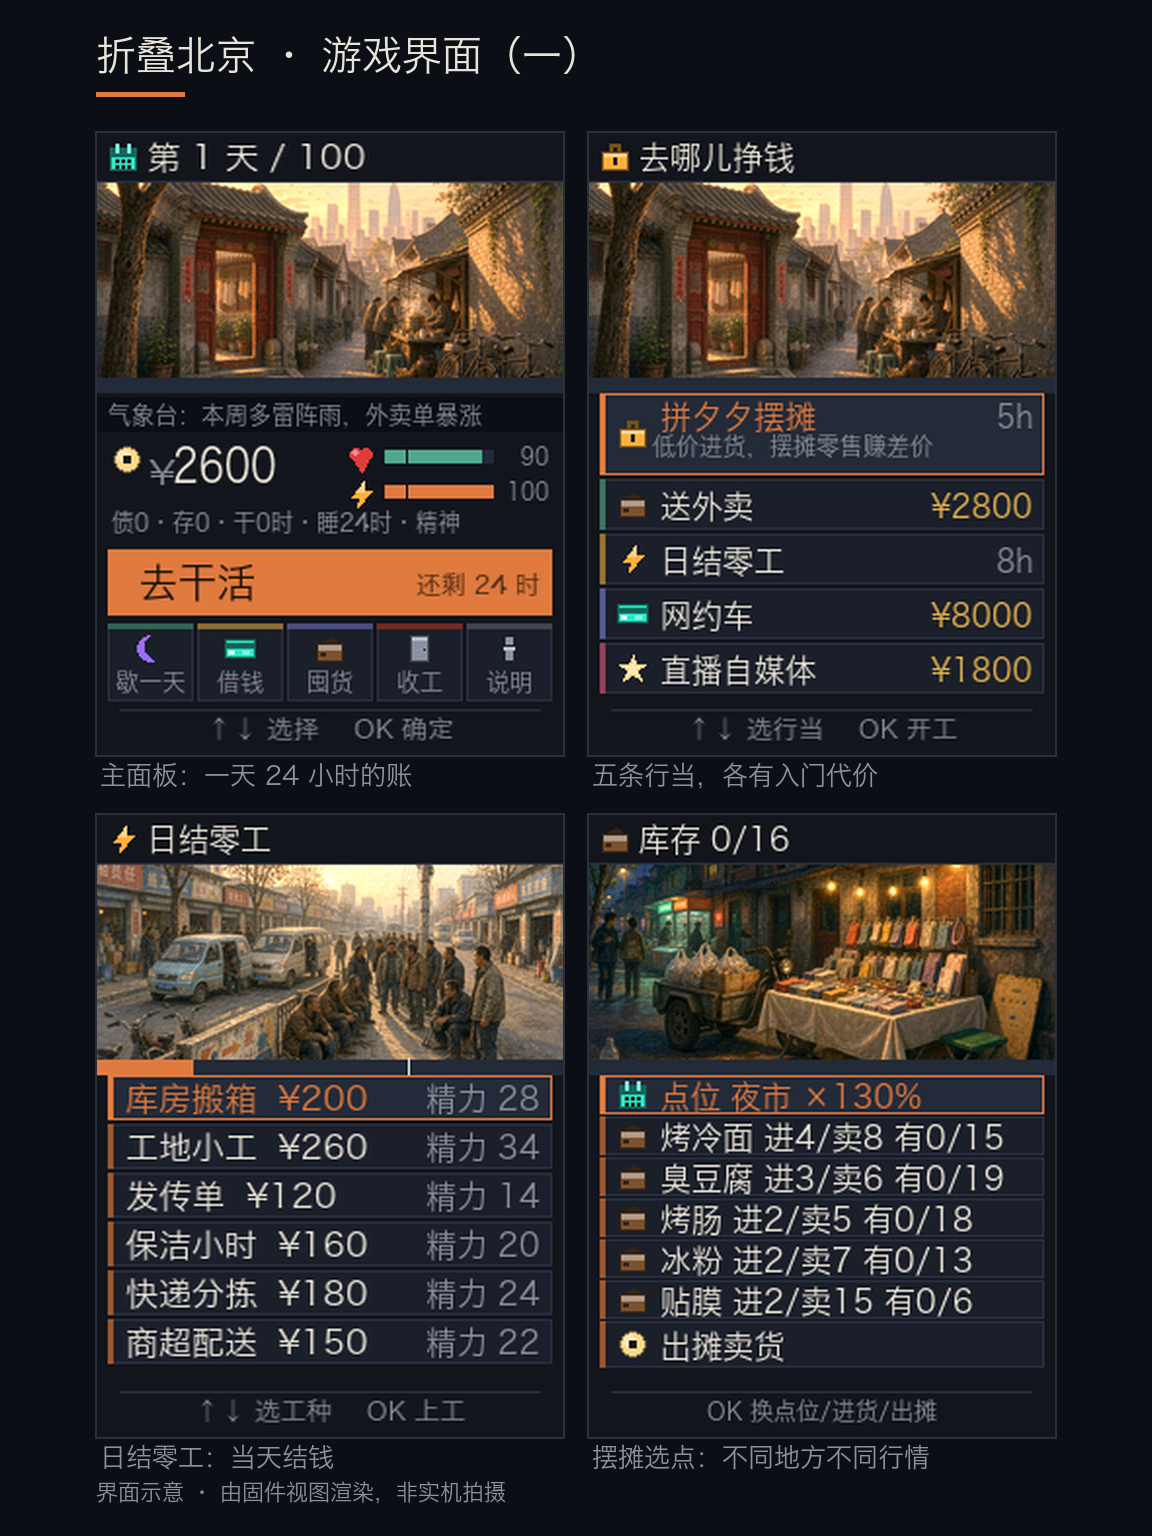
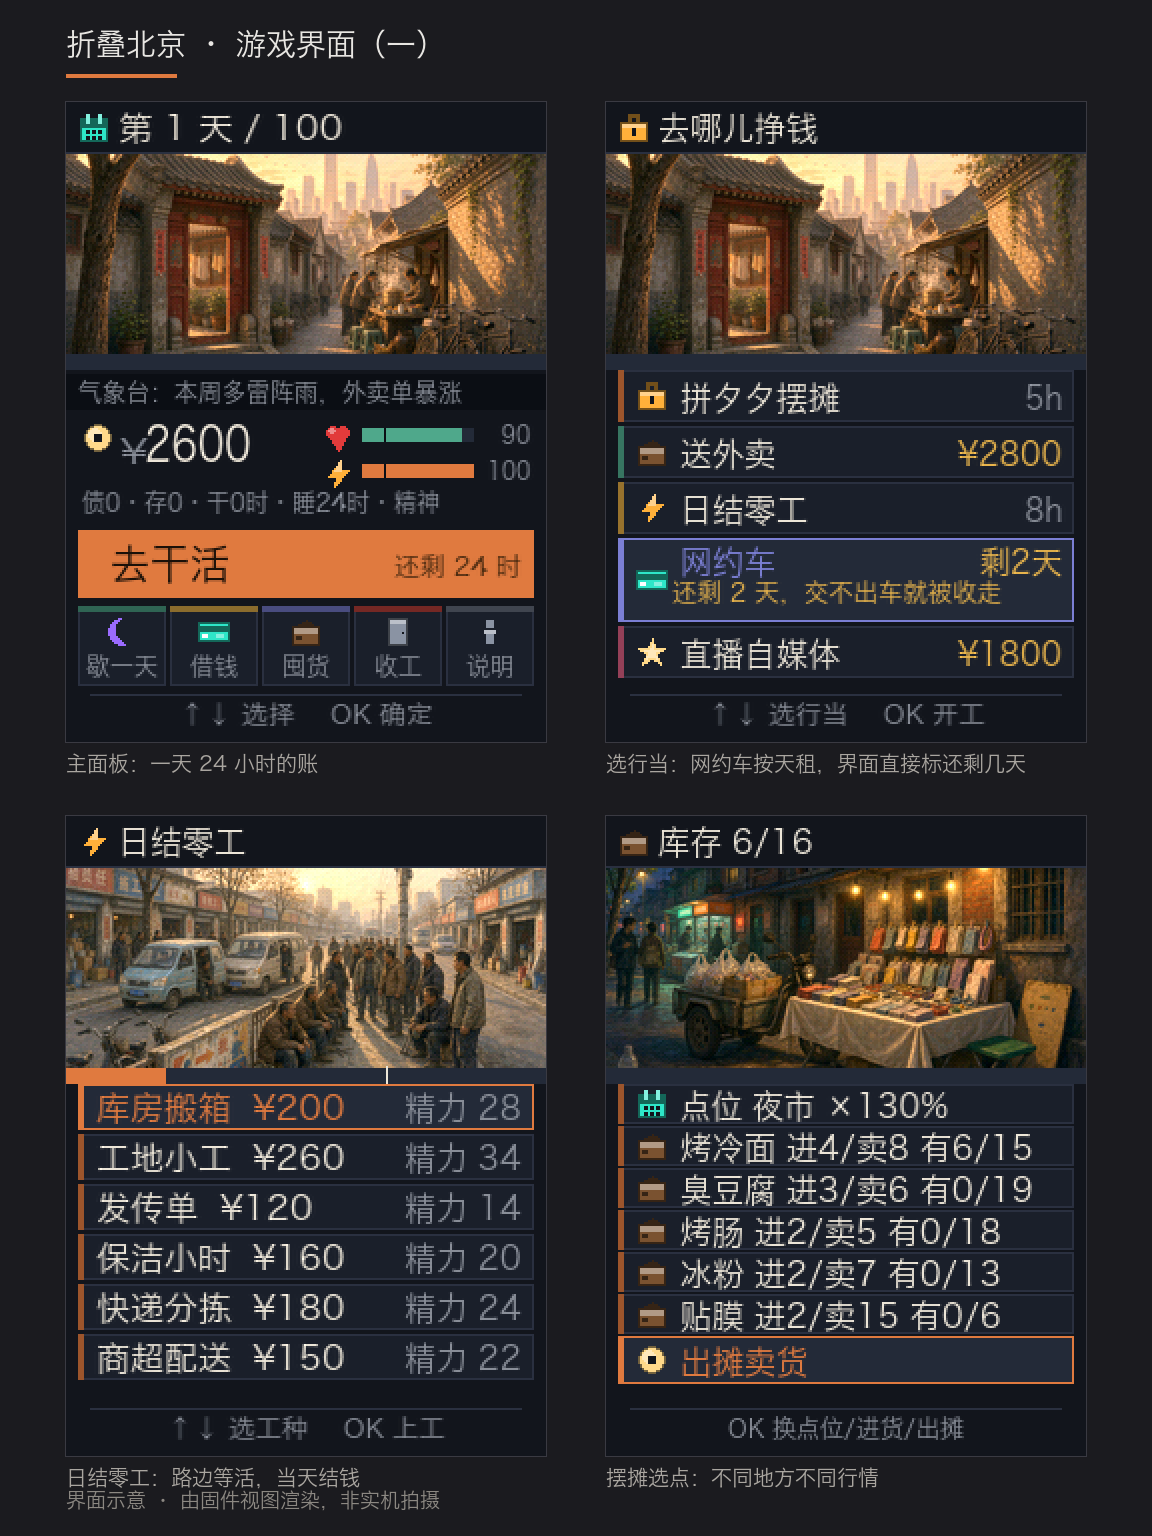
docs(发布): 2334 新版本 5810 的文案与界面图
- 使用方法第 2 步补网约车租期机制（押金租车、界面标剩余天数、交不出被收走）
- 更新日志换成本次两处修复（事件页选择 / 收车可见性），与简介分开
- UI 拼图改用当前固件视图重出：原来网约车那格还写着「¥8000」、
  收工明细只有 1 行；现在展示「剩 2 天」和两行明细、三项事件
- 新增 tools/xm/make_ui_sheet.py，拼图可复现，不再靠一次性脚本
- README 补齐租车月租规则

diff --git a/tools/xm/make_ui_sheet.py b/tools/xm/make_ui_sheet.py
@@ -1,0 +1,94 @@
+#!/usr/bin/env python3
+# -*- coding: utf-8 -*-
+"""折叠北京 · 发布用 UI 拼图生成器
+
+把 preview/*.png（240x320，由 fb_preview.py 从当前固件视图渲染）放大拼成
+1152x1536 的 2x2 界面图，供社区发布使用。
+
+为什么不用实机照片：手上没有拍摄条件，而这套图是固件视图直接渲染的，
+与真机像素一致；图脚注必须写明「非实机拍摄」，不能冒充实拍。
+
+用法:
+    python3 tools/xm/fb_preview.py --dump /tmp/fb_dump.json --out preview
+    python3 tools/xm/make_ui_sheet.py
+"""
+from pathlib import Path
+
+from PIL import Image, ImageDraw, ImageFont
+
+REPO = Path(__file__).resolve().parents[2]
+PREVIEW = REPO / "preview"
+OUT = REPO / "assets" / "publish"
+FONT = "/System/Library/Fonts/Hiragino Sans GB.ttc"
+
+W, H = 1152, 1536
+BG = (27, 27, 31)
+INK = (232, 230, 226)
+SUB = (170, 166, 160)
+FOOT = (140, 136, 130)
+ACCENT = (224, 122, 63)
+CELL = (480, 640)
+
+SHEETS = [
+    {
+        "name": "ui_sheet_1.png",
+        "title": "折叠北京 · 游戏界面（一）",
+        "cells": [
+            ("02_home", "主面板：一天 24 小时的账"),
+            ("03c_ride_due", "选行当：网约车按天租，界面直接标还剩几天"),
+            ("07_gig", "日结零工：路边等活，当天结钱"),
+            ("05_market_ready", "摆摊选点：不同地方不同行情"),
+        ],
+    },
+    {
+        "name": "ui_sheet_2.png",
+        "title": "折叠北京 · 游戏界面（二）",
+        "cells": [
+            ("16_live", "直播：连播涨粉，粉丝到了才有商单"),
+            ("15_finance", "借钱与存款，都有日息"),
+            ("09_report", "收工结算：当天收支与身体代价"),
+            ("10b_event3", "随机事件：每个选项都能选到"),
+        ],
+    },
+]
+
+
+def font(size):
+    return ImageFont.truetype(FONT, size)
+
+
+def build(sheet):
+    canvas = Image.new("RGB", (W, H), BG)
+    d = ImageDraw.Draw(canvas)
+
+    d.text((66, 28), sheet["title"], font=font(30), fill=INK)
+    d.rectangle([66, 74, 176, 77], fill=ACCENT)
+
+    x0, gap_x = 66, 60
+    y0, gap_y = 102, 74
+    for i, (page, caption) in enumerate(sheet["cells"]):
+        col, row = i % 2, i // 2
+        x = x0 + col * (CELL[0] + gap_x)
+        y = y0 + row * (CELL[1] + gap_y)
+
+        src = Image.open(PREVIEW / f"{page}.png").convert("RGB")
+        # 最近邻放大：游戏 UI 是硬边像素图，插值会把 1px 边框糊掉
+        shot = src.resize(CELL, Image.NEAREST)
+        canvas.paste(shot, (x, y))
+        d.rectangle([x - 1, y - 1, x + CELL[0], y + CELL[1]], outline=(58, 58, 66))
+        d.text((x, y + CELL[1] + 10), caption, font=font(21), fill=SUB)
+
+    d.text((66, H - 46), "界面示意 · 由固件视图渲染，非实机拍摄", font=font(20), fill=FOOT)
+    path = OUT / sheet["name"]
+    canvas.save(path, optimize=True)
+    print(f"{path.name}  {canvas.size[0]}x{canvas.size[1]}  {path.stat().st_size // 1024} KB")
+
+
+def main():
+    OUT.mkdir(parents=True, exist_ok=True)
+    for sheet in SHEETS:
+        build(sheet)
+
+
+if __name__ == "__main__":
+    main()

diff --git a/README.md b/README.md
@@ -13,7 +13,8 @@
 ## 玩法
 
 - 五条活路：夜市摆摊（选点位 × 选品类）、送外卖（先有电动车）、日结零工（无门槛，工钱当天结）、
-  网约车（先付押金租车，深夜档流水高）、直播（连续开播涨粉，粉丝到量才接商单）。
+  网约车（押金 8000 租车，每 30 天月租 2800，交不出车被收走、押金不退；行当页标出租期剩余天数）、
+  直播（连续开播涨粉，粉丝到量才接商单）。
 - 健康 / 精力随工时下降；连续熬夜会犯困，收入打八折、六折，扛不住当场晕倒，医药费与当天工夫一起没了。
 - 每天一条新闻、一次随机事件、一句旁白；借钱有日息，存款也有日息。
 - 仓储有上限，可花钱扩容。
